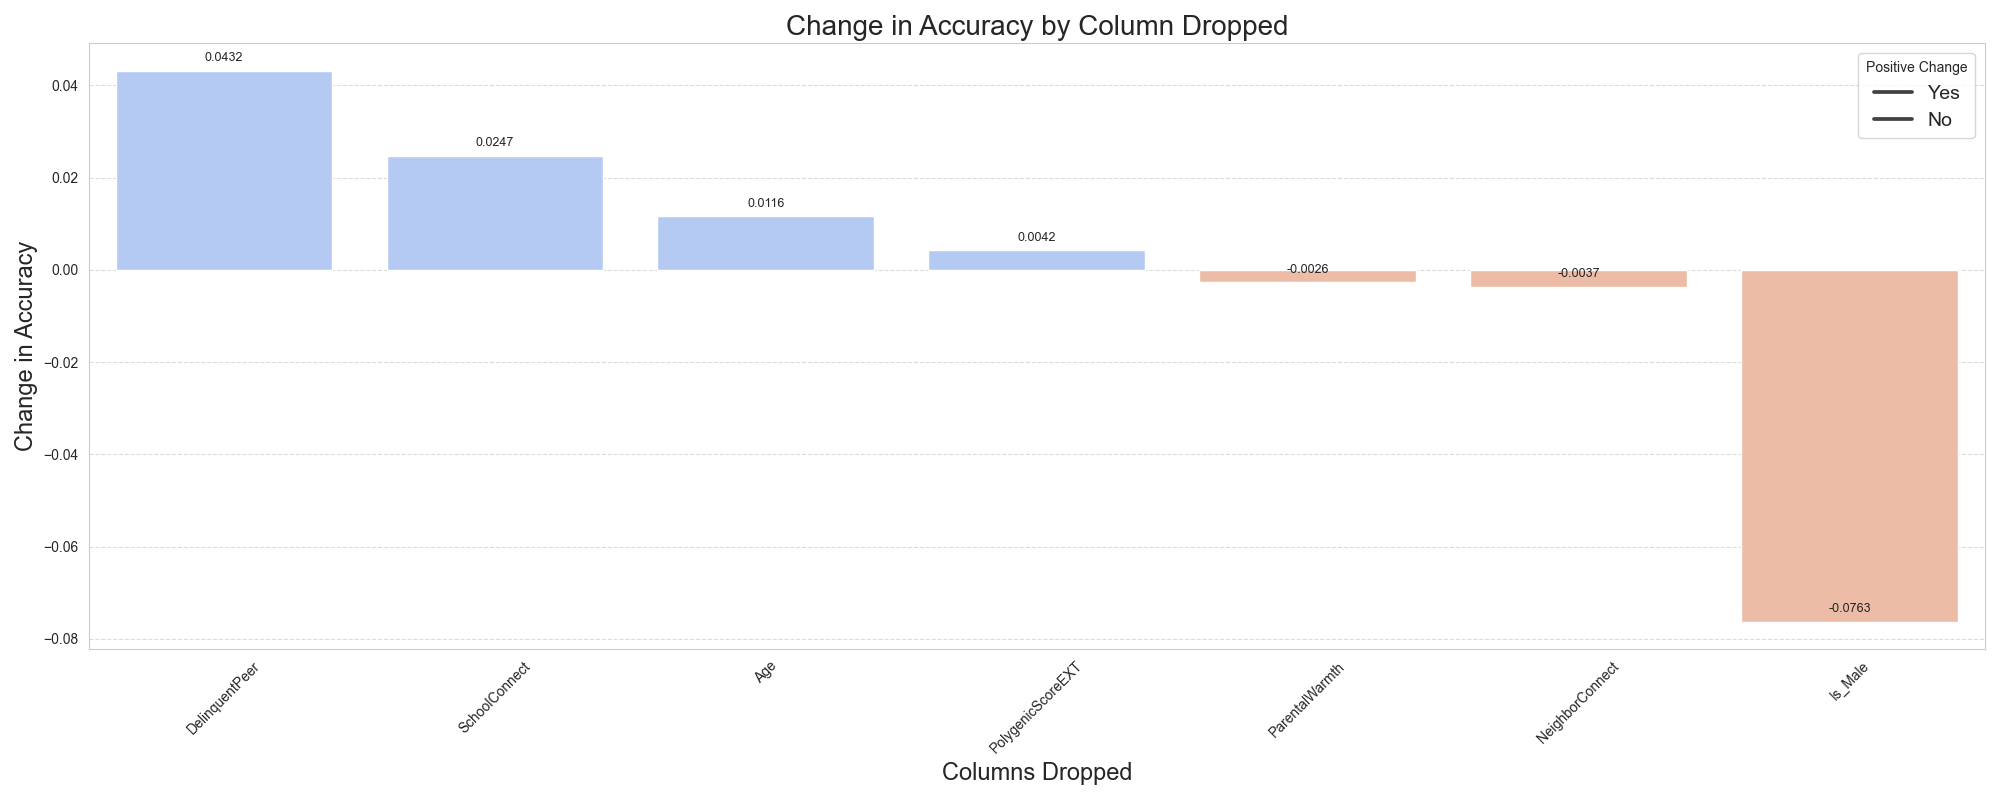
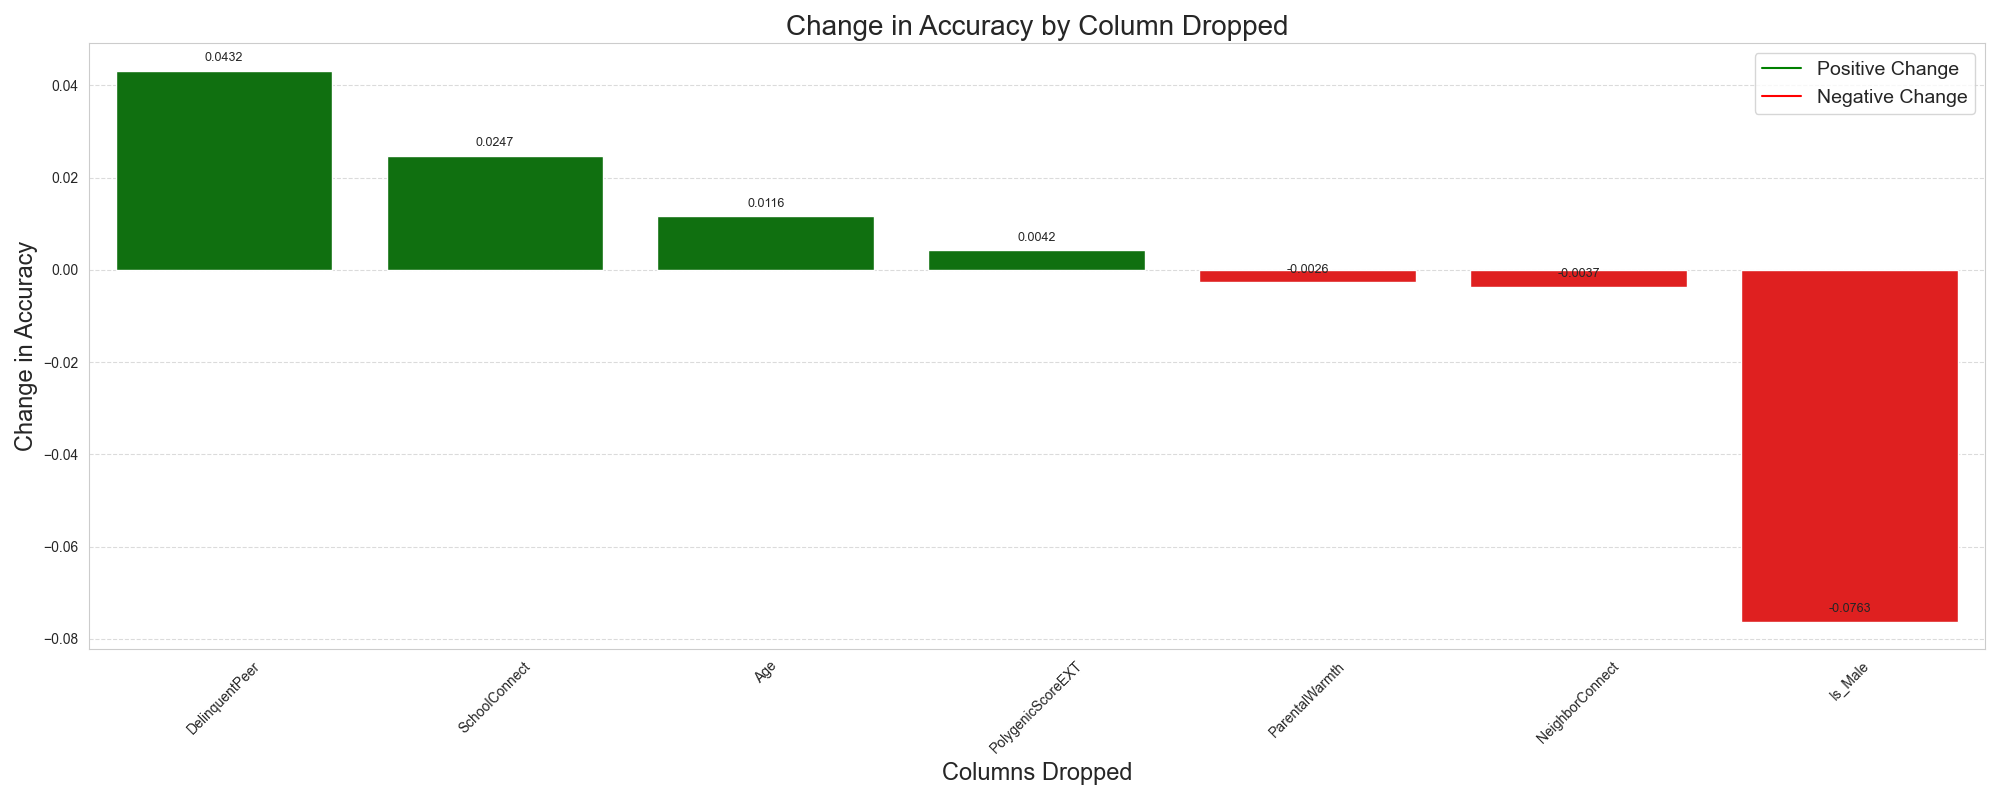
Drop column analysis

Changed region(s): [[0.465, 0.3125, 0.992, 0.7812], [0.031, 0.0625, 0.434, 0.3438], [0.899, 0.0625, 0.992, 0.1562]]

diff --git a/Phase_1/project_scripts/evaluation/drop column analysis/drop_column_analysis.py b/Phase_1/project_scripts/evaluation/drop column analysis/drop_column_analysis.py
@@ -54,21 +54,28 @@ def visualize_results(df, metric, key):
 
     # Decide color palette based on positive or negative change
     df["positive_change"] = df[y_col] > 0
-    palette = sns.color_palette("coolwarm_r", 2)
+    palette = {True: "g", False: "r"}  # Green for positive change and Red for negative
 
     # Bar plot for given metric
     plt.figure(figsize=(20, 8))
-    ax1 = sns.barplot(data=df, x="column_dropped", y=y_col, hue="positive_change", palette=palette, dodge=False)
+    ax1 = sns.barplot(data=df, x="column_dropped", y=y_col, palette=df["positive_change"].map(palette), dodge=False)
     plt.title(f"Change in {metric} by Column Dropped", fontsize=20)
     plt.xlabel("Columns Dropped", fontsize=17)
     plt.ylabel(ylabel, fontsize=17)
     plt.xticks(rotation=45)
-    plt.legend(title="Positive Change", loc="upper right", fontsize=14, labels=['Yes', 'No'])
+
+    # Custom Legend
+    from matplotlib.lines import Line2D
+    legend_elements = [Line2D([0], [0], color='g', label='Positive Change'),
+                       Line2D([0], [0], color='r', label='Negative Change')]
+    ax1.legend(handles=legend_elements, loc="upper right", fontsize=14)
+
     annotate_bars(ax1)
     plt.tight_layout()
     plt.grid(axis='y', linestyle='--', alpha=0.7)
     plt.savefig(os.path.join(RESULTS_DIR, f"{save_name}_{key}.png"))
     plt.close()
+
 
 
 def evaluate_with_drop_column(output_column):
